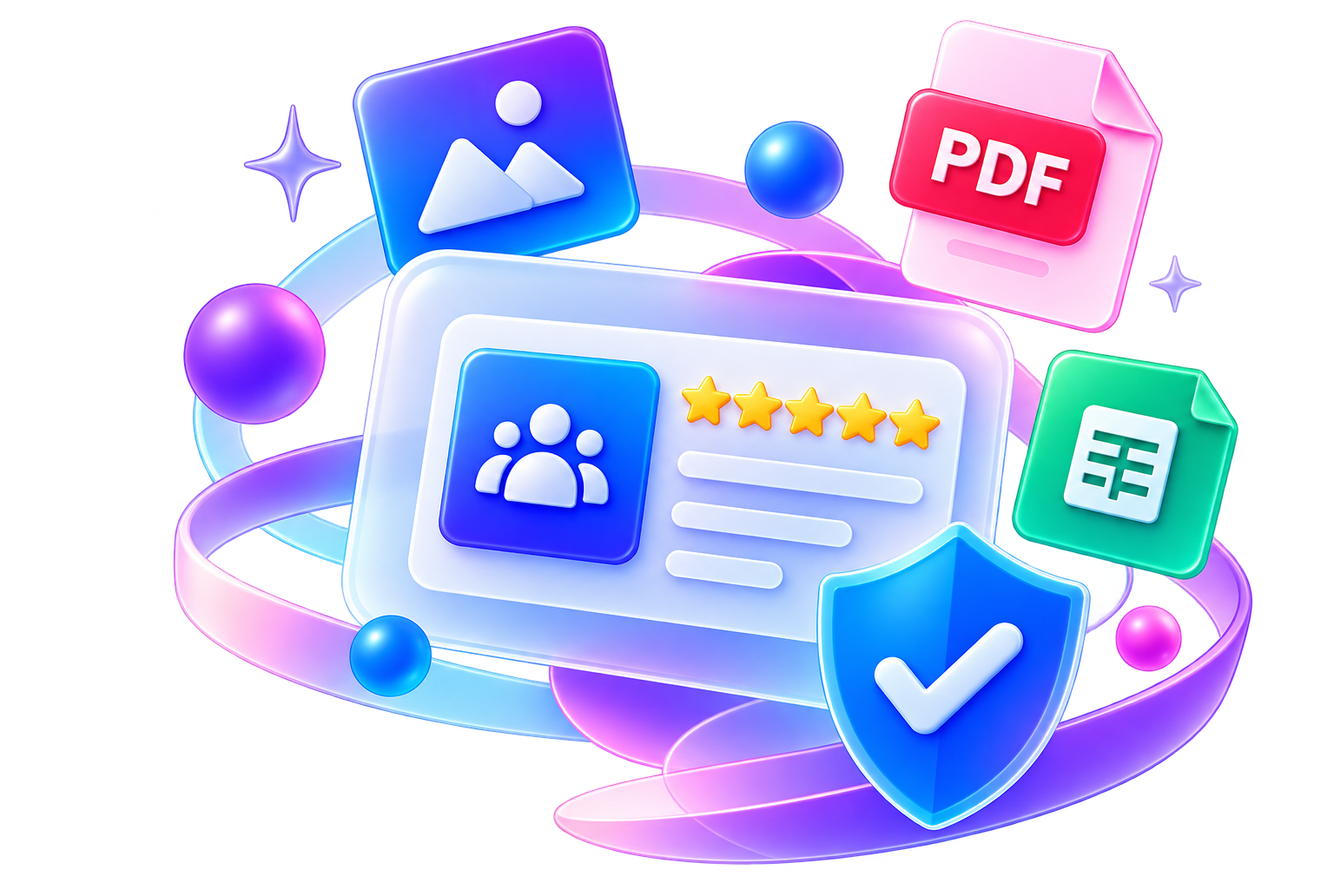
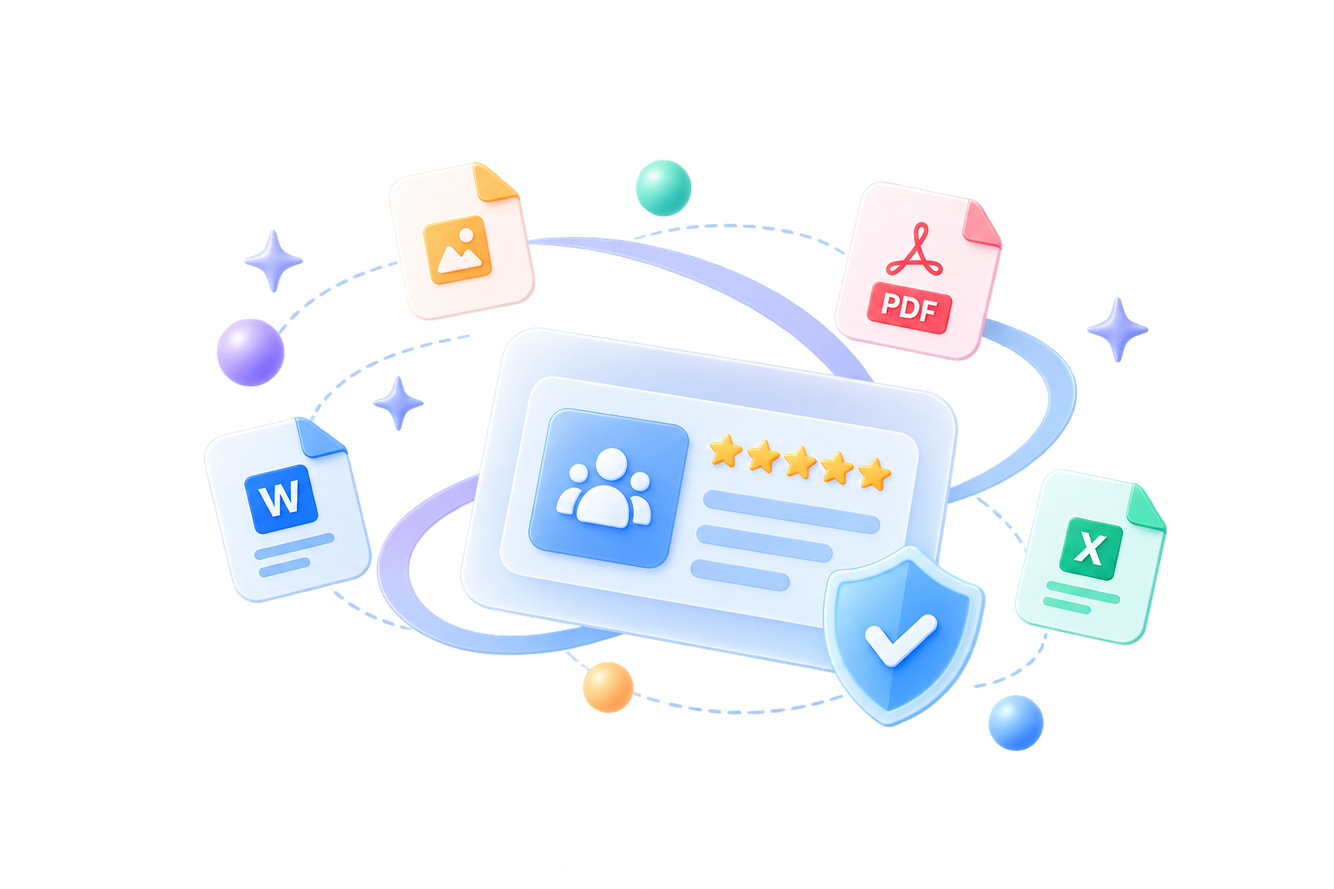
light color changes - all component image and text light color

diff --git a/src/features/dashboard/Dashboard.tsx b/src/features/dashboard/Dashboard.tsx
@@ -69,30 +69,30 @@ interface Tool {
 }
 
 const tools: Tool[] = [
-  { id: "pdf-to-word", name: "PDF to Word", description: "Convert PDF files to editable DOCX documents with high layout preservation.", path: "/pdf-to-word", icon: FileText, color: "from-blue-500 to-indigo-600", cardGlow: "rgba(99,102,241,0.13)", cardImg: imgPdfToWord, category: "from-pdf" },
-  { id: "pdf-to-ppt", name: "PDF to PowerPoint", description: "Convert your PDF pages into slides for PPTX presentations perfectly.", path: "/pdf-to-ppt", icon: Presentation, color: "from-orange-500 to-red-600", cardGlow: "rgba(249,115,22,0.13)", cardImg: imgPdfToPpt, category: "from-pdf" },
-  { id: "pdf-to-excel", name: "PDF to Excel", description: "Extract tabular data from PDF files to clean Excel spreadsheet sheets.", path: "/pdf-to-excel", icon: Table, color: "from-emerald-500 to-teal-600", cardGlow: "rgba(16,185,129,0.13)", cardImg: imgPdfToExcel, category: "from-pdf" },
-  { id: "pdf-to-image", name: "PDF to Image", description: "Extract pages from a PDF document as high-resolution PNG or JPG images.", path: "/pdf-to-image", icon: Image, color: "from-purple-500 to-pink-600", cardGlow: "rgba(168,85,247,0.13)", cardImg: imgPdfToImage, category: "from-pdf" },
-  { id: "image-to-pdf", name: "Image to PDF", description: "Convert JPG, PNG, WebP images to a single PDF document in seconds.", path: "/image-to-pdf", icon: FileImage, color: "from-rose-500 to-pink-600", cardGlow: "rgba(244,63,94,0.13)", cardImg: imgImageToPdf, category: "to-pdf" },
-  { id: "jpg-to-pdf", name: "JPG to PDF", description: "Quickly convert a single JPG or PNG image to a PDF page sized to the image.", path: "/jpg-to-pdf", icon: FileImage, color: "from-rose-400 to-pink-500", cardGlow: "rgba(251,113,133,0.13)", cardImg: imgJpgToPdf, category: "to-pdf" },
-  { id: "html-to-pdf", name: "HTML to PDF", description: "Convert HTML content or rich text into a downloadable PDF.", path: "/html-to-pdf", icon: FileText, color: "from-indigo-500 to-violet-600", cardGlow: "rgba(99,102,241,0.13)", cardImg: imgHtmlToPdf, category: "to-pdf" },
-  { id: "word-to-pdf", name: "Word to PDF", description: "Convert Microsoft Word DOCX files into PDF documents easily.", path: "/word-to-pdf", icon: FileText, color: "from-blue-600 to-sky-500", cardGlow: "rgba(14,165,233,0.13)", cardImg: imgWordToPdf, category: "to-pdf" },
-  { id: "ppt-to-pdf", name: "PowerPoint to PDF", description: "Convert presentation slides (.pptx) into clean PDF documents.", path: "/ppt-to-pdf", icon: Presentation, color: "from-orange-600 to-amber-500", cardGlow: "rgba(245,158,11,0.13)", cardImg: imgPptToPdf, category: "to-pdf" },
-  { id: "excel-to-pdf", name: "Excel to PDF", description: "Convert Excel files (.xlsx) to formatted PDF documents.", path: "/excel-to-pdf", icon: Table, color: "from-emerald-600 to-green-500", cardGlow: "rgba(16,185,129,0.13)", cardImg: imgExcelToPdf, category: "to-pdf" },
-  { id: "merge-pdf", name: "Merge PDF", description: "Combine multiple PDF files into a single document in your preferred order.", path: "/merge-pdf", icon: Merge, color: "from-violet-500 to-purple-600", cardGlow: "rgba(139,92,246,0.13)", cardImg: imgMergePdf, category: "utils", badge: "Popular" },
-  { id: "compress-pdf", name: "Compress PDF", description: "Reduce PDF file size without sacrificing readability or image quality.", path: "/compress-pdf", icon: Minimize2, color: "from-cyan-500 to-blue-600", cardGlow: "rgba(6,182,212,0.13)", cardImg: imgCompressPdf, category: "utils" },
-  { id: "split-pdf", name: "Split PDF", description: "Extract specific pages from PDF into a new document.", path: "/split-pdf", icon: Copy, color: "from-purple-500 to-indigo-600", cardGlow: "rgba(139,92,246,0.13)", cardImg: imgSplitPdf, category: "utils" },
-  { id: "rotate-pdf", name: "Rotate PDF", description: "Rotate all pages of your PDF document by 90°, 180°, or 270°.", path: "/rotate-pdf", icon: RotateCw, color: "from-cyan-500 to-teal-600", cardGlow: "rgba(6,182,212,0.13)", cardImg: imgRotatePdf, category: "utils" },
-  { id: "crop-pdf", name: "Crop PDF", description: "Remove margins from PDF pages by cropping from all sides.", path: "/crop-pdf", icon: Crop, color: "from-amber-500 to-orange-600", cardGlow: "rgba(245,158,11,0.13)", cardImg: imgCropPdf, category: "utils" },
-  { id: "remove-pages", name: "Remove pages", description: "Remove specific pages from a PDF and download the result.", path: "/remove-pages", icon: FileText, color: "from-red-500 to-rose-600", cardGlow: "rgba(239,68,68,0.13)", cardImg: imgRemovePages, category: "utils" },
-  { id: "extract-pages", name: "Extract pages", description: "Extract specific pages from a PDF into a new document.", path: "/extract-pages", icon: FileText, color: "from-emerald-500 to-teal-600", cardGlow: "rgba(16,185,129,0.13)", cardImg: imgExtractPages, category: "utils" },
-  { id: "protect-pdf", name: "Protect PDF", description: "Add password protection to encrypt your PDF documents.", path: "/protect-pdf", icon: Lock, color: "from-red-500 to-pink-600", cardGlow: "rgba(244,63,94,0.13)", cardImg: imgProtectPdf, category: "utils" },
-  { id: "html-viewer", name: "HTML Viewer", description: "View and preview HTML files directly in your browser with live rendering.", path: "/html-viewer", icon: Code2, color: "from-violet-500 to-indigo-600", cardGlow: "rgba(139,92,246,0.13)", cardImg: imgHtmlViewer, category: "web-tools" },
-  { id: "text-to-image", name: "Text to Image", description: "Turn your text description into a beautiful AI-generated image directly in your browser.", path: "/text-to-image", icon: Sparkles, color: "from-fuchsia-500 to-violet-600", cardGlow: "rgba(217,70,239,0.13)", cardImg: imgTextToImage, category: "web-tools" },
-  { id: "ai-background-remover", name: "AI Background Remover", description: "Remove backgrounds from your images and download transparent PNG images.", path: "/ai-background-remover", icon: ImageIcon, color: "from-pink-500 to-rose-600", cardGlow: "rgba(236,72,153,0.13)", cardImg: imgBgRemover, category: "web-tools" },
-  { id: "qr-code-generator", name: "QR Code Generator", description: "Create QR codes for URLs, text, phone numbers, emails, and more.", path: "/qr-code-generator", icon: QrCode, color: "from-cyan-500 to-blue-600", cardGlow: "rgba(6,182,212,0.13)", cardImg: imgQrCode, category: "web-tools" },
-  { id: "password-generator", name: "Password Generator", description: "Generate strong and secure passwords with customizable options.", path: "/password-generator", icon: LockKeyhole, color: "from-amber-500 to-orange-600", cardGlow: "rgba(245,158,11,0.13)", cardImg: imgPasswordGen, category: "web-tools" },
-  { id: "json-formatter", name: "JSON Formatter", description: "Format, beautify, minify, and validate your JSON directly in your browser.", path: "/json-formatter", icon: Braces, color: "from-cyan-500 to-teal-600", cardGlow: "rgba(6,182,212,0.13)", cardImg: imgJsonFormatter, category: "web-tools" },
+  { id: "pdf-to-word", name: "PDF to Word", description: "Convert PDF files to editable DOCX documents with high layout preservation.", path: "/pdf-to-word", icon: FileText, color: "from-blue-400 to-indigo-500", cardGlow: "rgba(99,102,241,0.13)", cardImg: imgPdfToWord, category: "from-pdf" },
+  { id: "pdf-to-ppt", name: "PDF to PowerPoint", description: "Convert your PDF pages into slides for PPTX presentations perfectly.", path: "/pdf-to-ppt", icon: Presentation, color: "from-orange-400 to-red-500", cardGlow: "rgba(249,115,22,0.13)", cardImg: imgPdfToPpt, category: "from-pdf" },
+  { id: "pdf-to-excel", name: "PDF to Excel", description: "Extract tabular data from PDF files to clean Excel spreadsheet sheets.", path: "/pdf-to-excel", icon: Table, color: "from-emerald-400 to-teal-500", cardGlow: "rgba(16,185,129,0.13)", cardImg: imgPdfToExcel, category: "from-pdf" },
+  { id: "pdf-to-image", name: "PDF to Image", description: "Extract pages from a PDF document as high-resolution PNG or JPG images.", path: "/pdf-to-image", icon: Image, color: "from-purple-400 to-pink-500", cardGlow: "rgba(168,85,247,0.13)", cardImg: imgPdfToImage, category: "from-pdf" },
+  { id: "image-to-pdf", name: "Image to PDF", description: "Convert JPG, PNG, WebP images to a single PDF document in seconds.", path: "/image-to-pdf", icon: FileImage, color: "from-rose-400 to-pink-500", cardGlow: "rgba(244,63,94,0.13)", cardImg: imgImageToPdf, category: "to-pdf" },
+  { id: "jpg-to-pdf", name: "JPG to PDF", description: "Quickly convert a single JPG or PNG image to a PDF page sized to the image.", path: "/jpg-to-pdf", icon: FileImage, color: "from-rose-400 to-pink-400", cardGlow: "rgba(251,113,133,0.13)", cardImg: imgJpgToPdf, category: "to-pdf" },
+  { id: "html-to-pdf", name: "HTML to PDF", description: "Convert HTML content or rich text into a downloadable PDF.", path: "/html-to-pdf", icon: FileText, color: "from-indigo-400 to-violet-500", cardGlow: "rgba(99,102,241,0.13)", cardImg: imgHtmlToPdf, category: "to-pdf" },
+  { id: "word-to-pdf", name: "Word to PDF", description: "Convert Microsoft Word DOCX files into PDF documents easily.", path: "/word-to-pdf", icon: FileText, color: "from-blue-500 to-sky-400", cardGlow: "rgba(14,165,233,0.13)", cardImg: imgWordToPdf, category: "to-pdf" },
+  { id: "ppt-to-pdf", name: "PowerPoint to PDF", description: "Convert presentation slides (.pptx) into clean PDF documents.", path: "/ppt-to-pdf", icon: Presentation, color: "from-orange-500 to-amber-400", cardGlow: "rgba(245,158,11,0.13)", cardImg: imgPptToPdf, category: "to-pdf" },
+  { id: "excel-to-pdf", name: "Excel to PDF", description: "Convert Excel files (.xlsx) to formatted PDF documents.", path: "/excel-to-pdf", icon: Table, color: "from-emerald-500 to-green-400", cardGlow: "rgba(16,185,129,0.13)", cardImg: imgExcelToPdf, category: "to-pdf" },
+  { id: "merge-pdf", name: "Merge PDF", description: "Combine multiple PDF files into a single document in your preferred order.", path: "/merge-pdf", icon: Merge, color: "from-violet-400 to-purple-500", cardGlow: "rgba(139,92,246,0.13)", cardImg: imgMergePdf, category: "utils", badge: "Popular" },
+  { id: "compress-pdf", name: "Compress PDF", description: "Reduce PDF file size without sacrificing readability or image quality.", path: "/compress-pdf", icon: Minimize2, color: "from-cyan-400 to-blue-500", cardGlow: "rgba(6,182,212,0.13)", cardImg: imgCompressPdf, category: "utils" },
+  { id: "split-pdf", name: "Split PDF", description: "Extract specific pages from PDF into a new document.", path: "/split-pdf", icon: Copy, color: "from-purple-400 to-indigo-500", cardGlow: "rgba(139,92,246,0.13)", cardImg: imgSplitPdf, category: "utils" },
+  { id: "rotate-pdf", name: "Rotate PDF", description: "Rotate all pages of your PDF document by 90°, 180°, or 270°.", path: "/rotate-pdf", icon: RotateCw, color: "from-cyan-400 to-teal-500", cardGlow: "rgba(6,182,212,0.13)", cardImg: imgRotatePdf, category: "utils" },
+  { id: "crop-pdf", name: "Crop PDF", description: "Remove margins from PDF pages by cropping from all sides.", path: "/crop-pdf", icon: Crop, color: "from-amber-400 to-orange-500", cardGlow: "rgba(245,158,11,0.13)", cardImg: imgCropPdf, category: "utils" },
+  { id: "remove-pages", name: "Remove pages", description: "Remove specific pages from a PDF and download the result.", path: "/remove-pages", icon: FileText, color: "from-red-400 to-rose-500", cardGlow: "rgba(239,68,68,0.13)", cardImg: imgRemovePages, category: "utils" },
+  { id: "extract-pages", name: "Extract pages", description: "Extract specific pages from a PDF into a new document.", path: "/extract-pages", icon: FileText, color: "from-emerald-400 to-teal-500", cardGlow: "rgba(16,185,129,0.13)", cardImg: imgExtractPages, category: "utils" },
+  { id: "protect-pdf", name: "Protect PDF", description: "Add password protection to encrypt your PDF documents.", path: "/protect-pdf", icon: Lock, color: "from-red-400 to-pink-500", cardGlow: "rgba(244,63,94,0.13)", cardImg: imgProtectPdf, category: "utils" },
+  { id: "html-viewer", name: "HTML Viewer", description: "View and preview HTML files directly in your browser with live rendering.", path: "/html-viewer", icon: Code2, color: "from-violet-400 to-indigo-500", cardGlow: "rgba(139,92,246,0.13)", cardImg: imgHtmlViewer, category: "web-tools" },
+  { id: "text-to-image", name: "Text to Image", description: "Turn your text description into a beautiful AI-generated image directly in your browser.", path: "/text-to-image", icon: Sparkles, color: "from-fuchsia-400 to-violet-500", cardGlow: "rgba(217,70,239,0.13)", cardImg: imgTextToImage, category: "web-tools" },
+  { id: "ai-background-remover", name: "AI Background Remover", description: "Remove backgrounds from your images and download transparent PNG images.", path: "/ai-background-remover", icon: ImageIcon, color: "from-pink-400 to-rose-500", cardGlow: "rgba(236,72,153,0.13)", cardImg: imgBgRemover, category: "web-tools" },
+  { id: "qr-code-generator", name: "QR Code Generator", description: "Create QR codes for URLs, text, phone numbers, emails, and more.", path: "/qr-code-generator", icon: QrCode, color: "from-cyan-400 to-blue-500", cardGlow: "rgba(6,182,212,0.13)", cardImg: imgQrCode, category: "web-tools" },
+  { id: "password-generator", name: "Password Generator", description: "Generate strong and secure passwords with customizable options.", path: "/password-generator", icon: LockKeyhole, color: "from-amber-400 to-orange-500", cardGlow: "rgba(245,158,11,0.13)", cardImg: imgPasswordGen, category: "web-tools" },
+  { id: "json-formatter", name: "JSON Formatter", description: "Format, beautify, minify, and validate your JSON directly in your browser.", path: "/json-formatter", icon: Braces, color: "from-cyan-400 to-teal-500", cardGlow: "rgba(6,182,212,0.13)", cardImg: imgJsonFormatter, category: "web-tools" },
 ];
 
 export default function Dashboard() {
@@ -405,7 +405,7 @@ export default function Dashboard() {
                   drop-shadow-2xl
                 "
                   style={{
-                    filter: "drop-shadow(0 20px 40px rgba(124,58,237,0.22))",
+                    filter: "drop-shadow(0 20px 40px rgba(251, 250, 251, 0.02))",
                   }}
                 />
               </div>
@@ -483,7 +483,7 @@ export default function Dashboard() {
                 }}
                 onMouseEnter={(e) => {
                   (e.currentTarget as HTMLElement).style.borderColor = "var(--border-hover)";
-                  (e.currentTarget as HTMLElement).style.boxShadow = `0 12px 36px ${tool.cardGlow}`;
+                  // (e.currentTarget as HTMLElement).style.boxShadow = `0 12px 36px ${tool.cardGlow}`;
                 }}
                 onMouseLeave={(e) => {
                   (e.currentTarget as HTMLElement).style.borderColor = "var(--border-soft)";
@@ -491,13 +491,13 @@ export default function Dashboard() {
                 }}
               >
                 {/* Subtle card bg tint */}
-                <div
+                {/* <div
                   className="absolute inset-0 pointer-events-none opacity-[0.04] group-hover:opacity-[0.07] transition-opacity duration-300"
                   style={{ background: `radial-gradient(ellipse at 80% 90%, ${tool.cardGlow.replace("0.13","1")} 0%, transparent 65%)` }}
-                />
+                /> */}
 
                 {/* Bottom-right: tool image — blurred & faded */}
-                {tool.cardImg ? (
+                {/* {tool.cardImg ? (
                   <img
                     src={tool.cardImg}
                     alt=""
@@ -512,13 +512,15 @@ export default function Dashboard() {
                   <div className="absolute bottom-2 right-2 pointer-events-none opacity-[0.08] group-hover:opacity-[0.14] transition-opacity duration-300">
                     <Icon className="w-16 h-16" />
                   </div>
-                )}
+                )} */}
 
                 {/* Top row: iOS-style icon + arrow circle */}
                 <div className="flex items-start justify-between">
                   <div
-                    className={`w-12 md:w-14 h-12 md:h-14 rounded-lg md:rounded-2xl bg-gradient-to-br ${tool.color} flex items-center justify-center text-white shadow-lg`}
-                    style={{ boxShadow: `0 6px 20px ${tool.cardGlow}` }}
+                    className={`w-12 md:w-14 h-12 md:h-14 rounded-lg md:rounded-2xl flex items-center justify-center text-white shadow-lg`}
+                    //  boxShadow: `0 6px 20px ${tool.cardGlow}`,
+                    style={{backgroundColor: "rgba(139, 92, 246, 0.10)",
+                   color: "#8B5CF6", }}
                   >
                     <Icon className="w-5 md:w-7 h-5 md:h-7" />
                   </div>

diff --git a/src/components/TrustedStats.tsx b/src/components/TrustedStats.tsx
@@ -68,23 +68,23 @@ const TrustedStats: React.FC = () => {
         className="relative mx-auto max-w-[1400px] rounded-3xl overflow-hidden"
       >
         {/* Lavender gradient base — light mode only */}
-        <div
+        {/* <div
           className="absolute inset-0 pointer-events-none z-0"
           style={{
             background: "linear-gradient(135deg, #ede9fe 0%, #f5f3ff 30%, #fdf4ff 60%, #e0f2fe 100%)",
           }}
-        />
+        /> */}
         {/* Dark mode overlay — covers lavender with dark bg */}
-        <div
+        {/* <div
           className="absolute inset-0 pointer-events-none z-0"
           style={{ background: "var(--trusted-dark-overlay, transparent)" }}
-        />
+        /> */}
 
         {/* Decorative blobs */}
-        <div className="absolute -top-20 -left-20 w-72 h-72 rounded-full blur-[80px] opacity-40 pointer-events-none"
+        {/* <div className="absolute -top-20 -left-20 w-72 h-72 rounded-full blur-[80px] opacity-40 pointer-events-none"
           style={{ background: "radial-gradient(circle, #c4b5fd, transparent)" }} />
         <div className="absolute -bottom-16 right-[30%] w-64 h-64 rounded-full blur-[70px] opacity-30 pointer-events-none"
-          style={{ background: "radial-gradient(circle, #fbcfe8, transparent)" }} />
+          style={{ background: "radial-gradient(circle, #fbcfe8, transparent)" }} /> */}
 
         {/* ── Content ── */}
         <div className="relative z-10 flex flex-col lg:flex-row items-center gap-8 px-4 py-12 sm:py-14 lg:py-16 lg:px-12">
@@ -115,133 +115,46 @@ const TrustedStats: React.FC = () => {
             </p>
 
             {/* Stats row — circle icon with teardrop blob */}
-            <div className="mt-10 grid grid-cols-2 sm:grid-cols-4 gap-x-6 gap-y-10">
-            {stats.map((stat, i) => {
-              const Icon = stat.icon;
+          <div className="mt-10 grid grid-cols-2 sm:grid-cols-4 gap-8">
+  {stats.map((stat, i) => {
+    const Icon = stat.icon;
 
-              return (
-                <div
-                  key={stat.label}
-                  className="flex flex-col items-center text-center"
-                >
-                  {/* Visual */}
-                  <div className="relative w-[100px] md:w-[170px] h-[100px] md:h-[125px]">
+    return (
+      <div
+        key={stat.label}
+        className="flex flex-col items-center text-center"
+      >
+        {/* Icon */}
+        <div
+          className="w-16 h-16 rounded-2xl flex items-center justify-center"
+          style={{
+            backgroundColor: `${stat.color}12`,
+            color: stat.color,
+          }}
+        >
+          <Icon className="w-7 h-7" strokeWidth={2} />
+        </div>
 
-                    {/* Main pedestal */}
-                    <div
-                      className="absolute left-1/2 -translate-x-1/2 bottom-0
-                                w-[150px] h-[62px]
-                                rounded-[50%]
-                                overflow-hidden"
-                      style={{
-                        background: `linear-gradient(
-                          180deg,
-                          ${stat.color}30 0%,
-                          ${stat.color}18 45%,
-                          ${stat.color}08 100%
-                        )`,
-                        border: `1px solid ${stat.color}30`,
-                        boxShadow: `
-                          inset 0 2px 8px ${stat.color}18,
-                          0 12px 25px ${stat.color}12
-                        `,
-                      }}
-                    >
-                      {/* Top platform */}
-                      <div
-                        className="absolute left-1/2 -translate-x-1/2 -top-[2px]
-                                  w-[150px] h-[38px]
-                                  rounded-[50%]"
-                        style={{
-                          background: `linear-gradient(
-                            180deg,
-                            ${stat.color}35,
-                            ${stat.color}18
-                          )`,
-                          border: `1px solid ${stat.color}35`,
-                          boxShadow: `
-                            inset 0 2px 5px rgba(255,255,255,0.25),
-                            0 4px 12px ${stat.color}15
-                          `,
-                        }}
-                      />
+        {/* Number */}
+        <div
+          className="mt-4 text-3xl sm:text-4xl font-bold leading-none"
+          style={{ color: stat.color }}
+        >
+          {counts[i]}
+          {stat.suffix}
+        </div>
 
-                      {/* Inner highlight */}
-                      <div
-                        className="absolute left-1/2 -translate-x-1/2 top-2
-                                  w-[105px] h-[20px] rounded-[50%] opacity-40"
-                        style={{
-                          background: `radial-gradient(
-                            ellipse,
-                            ${stat.color}55 0%,
-                            transparent 70%
-                          )`,
-                        }}
-                      />
-                    </div>
-
-                    {/* Soft floor glow */}
-                    <div
-                      className="absolute bottom-[-8px] left-1/2
-                                -translate-x-1/2
-                                w-[125px] h-[25px]
-                                rounded-full blur-xl opacity-20"
-                      style={{
-                        backgroundColor: stat.color,
-                      }}
-                    />
-
-                    {/* Floating icon */}
-                    <div
-                      className="absolute z-10 top-0 left-1/2
-                                -translate-x-1/2
-                                w-[65px] md:w-[76px] h-[65px] md:h-[76px]
-                                rounded-full
-                                flex items-center justify-center"
-                      style={{
-                        background: `linear-gradient(
-                          145deg,
-                          ${stat.color} 0%,
-                          ${stat.color}e6 100%
-                        )`,
-                        boxShadow: `
-                          0 10px 20px ${stat.color}40,
-                          inset 0 2px 3px rgba(255,255,255,0.3)
-                        `,
-                      }}
-                    >
-                      <Icon
-                        className="w-6 md:w-9 h-6 md:h-9 text-white"
-                        strokeWidth={1.8}
-                      />
-                    </div>
-                  </div>
-
-                  {/* Number */}
-                  <div
-                    className="text-3xl sm:text-4xl font-black
-                              tracking-tight leading-none mt-3"
-                    style={{
-                      color: stat.color,
-                    }}
-                  >
-                    {counts[i]}
-                    {stat.suffix}
-                  </div>
-
-                  {/* Label */}
-                  <div
-                    className="mt-2 text-sm font-medium"
-                    style={{
-                      color: "var(--text-secondary)",
-                    }}
-                  >
-                    {stat.label}
-                  </div>
-                </div>
-              );
-            })}
-          </div>
+        {/* Label */}
+        <div
+          className="mt-2 text-sm"
+          style={{ color: "var(--text-secondary)" }}
+        >
+          {stat.label}
+        </div>
+      </div>
+    );
+  })}
+</div>
           </div>
 
           {/* RIGHT — illustration */}

diff --git a/src/components/Layout.tsx b/src/components/Layout.tsx
@@ -620,33 +620,6 @@ export default function Layout({ children }: LayoutProps) {
       {/* Main Content */}
       <main className="flex-grow max-w-[1400px] w-full mx-auto px-6 py-7 relative overflow-x-hidden">
         {children}
-        {/* Bottom decorative gradient blobs */}
-        <div className="absolute bottom-0 left-0 right-0 h-48 pointer-events-none z-0">
-          {/* Left blob — violet/purple */}
-          <div
-            className="absolute bottom-0 left-[-80px] w-[420px] h-[220px] rounded-full blur-[70px] opacity-25"
-            style={{
-              background:
-                "radial-gradient(ellipse, #7c3aed 0%, #4f46e5 50%, transparent 75%)",
-            }}
-          />
-          {/* Center blob — pink */}
-          <div
-            className="absolute bottom-0 left-1/2 -translate-x-1/2 w-[500px] h-[180px] rounded-full blur-[80px] opacity-15"
-            style={{
-              background:
-                "radial-gradient(ellipse, #ec4899 0%, #a855f7 55%, transparent 75%)",
-            }}
-          />
-          {/* Right blob — indigo/blue */}
-          <div
-            className="absolute bottom-0 right-[-60px] w-[380px] h-[200px] rounded-full blur-[65px] opacity-20"
-            style={{
-              background:
-                "radial-gradient(ellipse, #6366f1 0%, #0ea5e9 55%, transparent 75%)",
-            }}
-          />
-        </div>
       </main>
     </div>
   );

diff --git a/src/components/FooterFile.tsx b/src/components/FooterFile.tsx
@@ -46,7 +46,7 @@ const FooterColumn: React.FC<FooterColumnProps> = ({ title, tools }) => (
             <Link
               to={tool.path}
               className="group flex items-center gap-2 text-sm transition-all duration-200 hover:translate-x-1"
-              style={{ color: "var(--text-secondary)" }}
+              style={{ color: "var(--text-footer)" }}
               onMouseEnter={e => (e.currentTarget as HTMLElement).style.color = "#a78bfa"}
               onMouseLeave={e => (e.currentTarget as HTMLElement).style.color = "var(--text-secondary)"}
             >
@@ -161,7 +161,7 @@ const FooterFile: React.FC = () => {
               </span>
             </Link>
 
-            <p className="text-sm leading-relaxed max-w-[260px]" style={{ color: "var(--text-secondary)" }}>
+            <p className="text-sm leading-relaxed max-w-[260px]" style={{ color: "var(--text-footer)" }}>
               Fast, secure, and private online tools for converting, editing, and managing
               your files directly in your browser.
             </p>

diff --git a/src/components/WhyChooseUs.tsx b/src/components/WhyChooseUs.tsx
@@ -42,16 +42,16 @@ const WhyChooseUs: React.FC = () => {
     <section className="w-full py-10 sm:py-14 lg:py-16 px-6">
       <div
         className="mx-auto max-w-[1400px] rounded-3xl overflow-hidden relative"
-        style={{
-          background: "linear-gradient(135deg, #ede9fe 0%, #f5f3ff 30%, #fdf4ff 60%, #e0f2fe 100%)",
-        }}
+        // style={{
+        //   background: "linear-gradient(135deg, #ede9fe 0%, #f5f3ff 30%, #fdf4ff 60%, #e0f2fe 100%)",
+        // }}
       >
         {/* Dark mode overlay */}
-        <div
+        {/* <div
           className="absolute inset-0 pointer-events-none z-0"
           style={{ background: "var(--trusted-dark-overlay, transparent)" }}
         />
-      
+       */}
         <div className="relative z-10 flex flex-col lg:flex-row items-center">
 
           {/* ── LEFT: Illustration ── */}

diff --git a/src/index.css b/src/index.css
@@ -35,6 +35,7 @@
   --text-primary:   #f1f5f9;   /* slate-100 */
   --text-secondary: #94a3b8;   /* slate-400 */
   --text-muted:     #64748b;   /* slate-500 */
+  --text-footer:     #64748b;   /* slate-500 */
   --text-heading:   #ffffff;
 
   --nav-bg:         rgba(2,8,23,0.75);  /* slate-950/75 */
@@ -75,6 +76,7 @@
   --text-primary:   #0f172a;   /* slate-900 */
   --text-secondary: #334155;   /* slate-700 – darker for readability */
   --text-muted:     #64748b;   /* slate-500 */
+    --text-footer:     #080c11;
   --text-heading:   #0f172a;   /* slate-900 */
 
   --nav-bg:         rgba(255,255,255,0.90);
